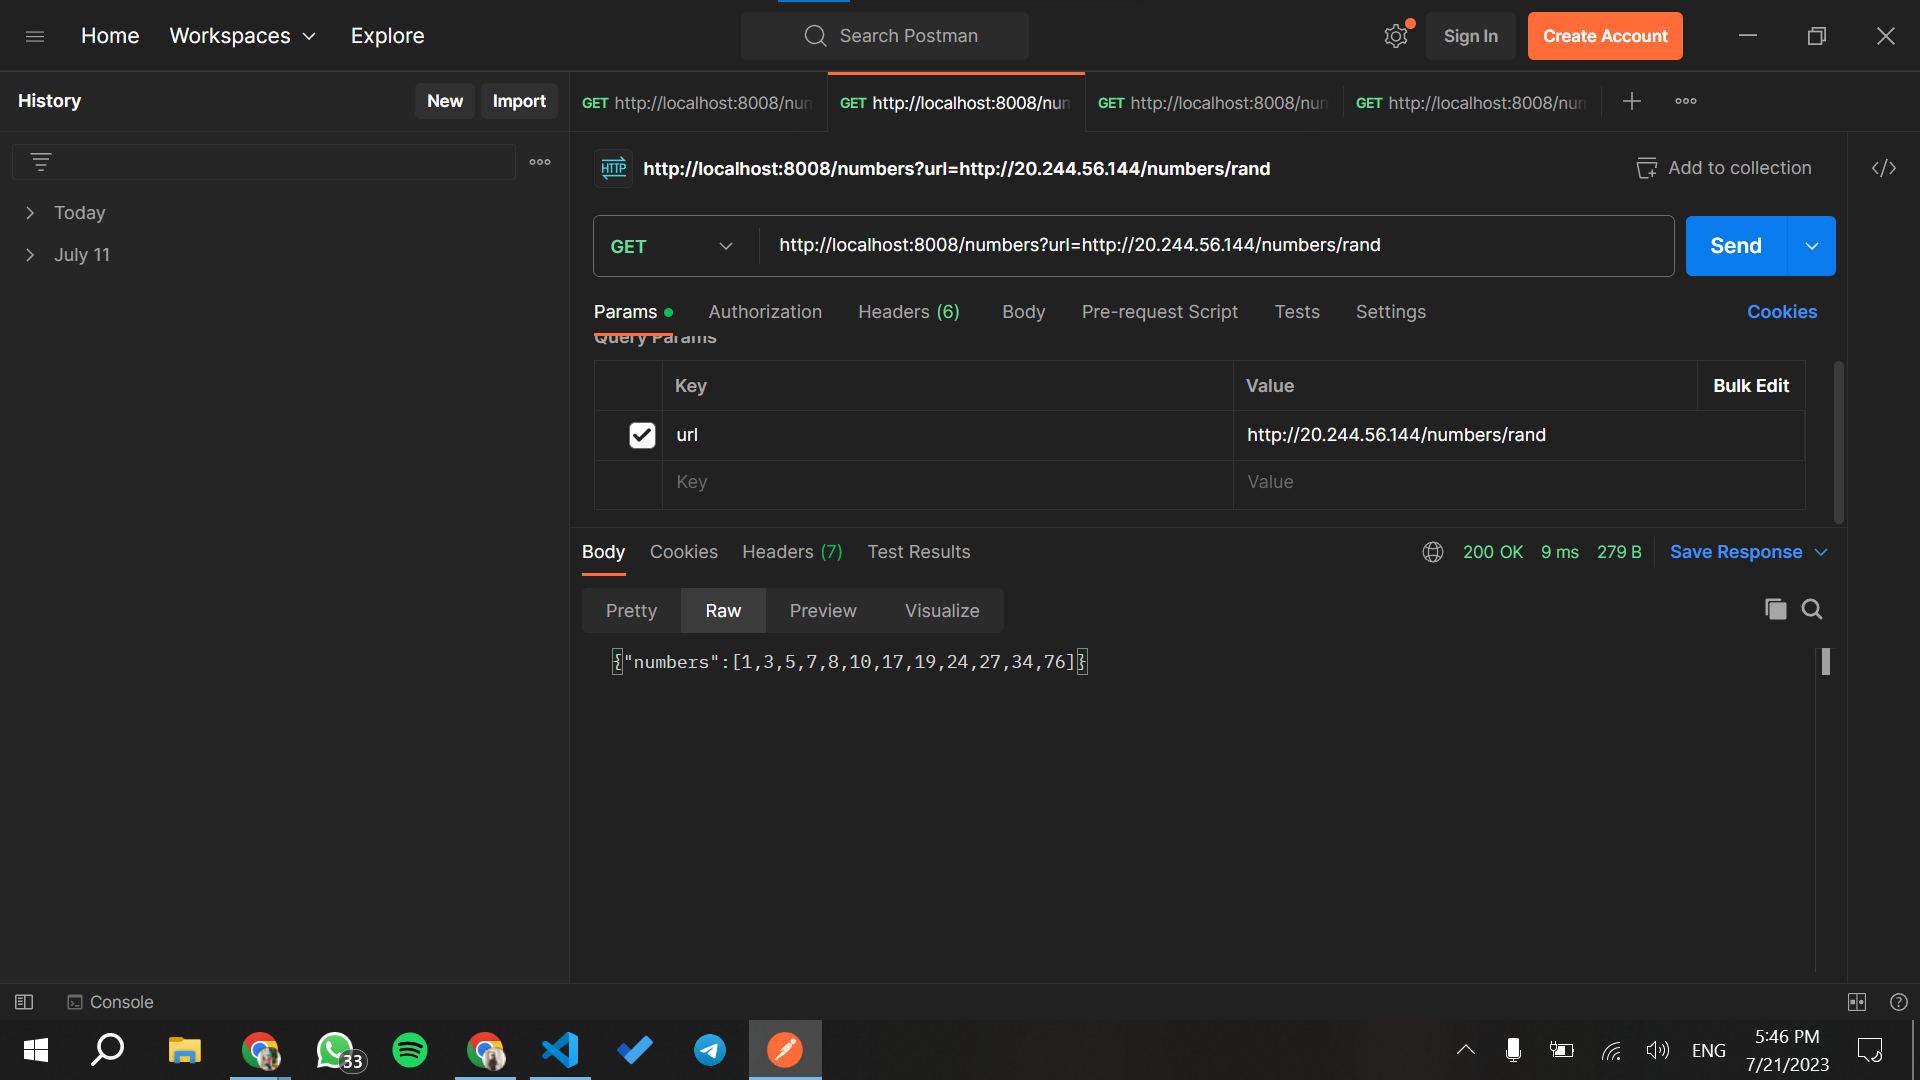
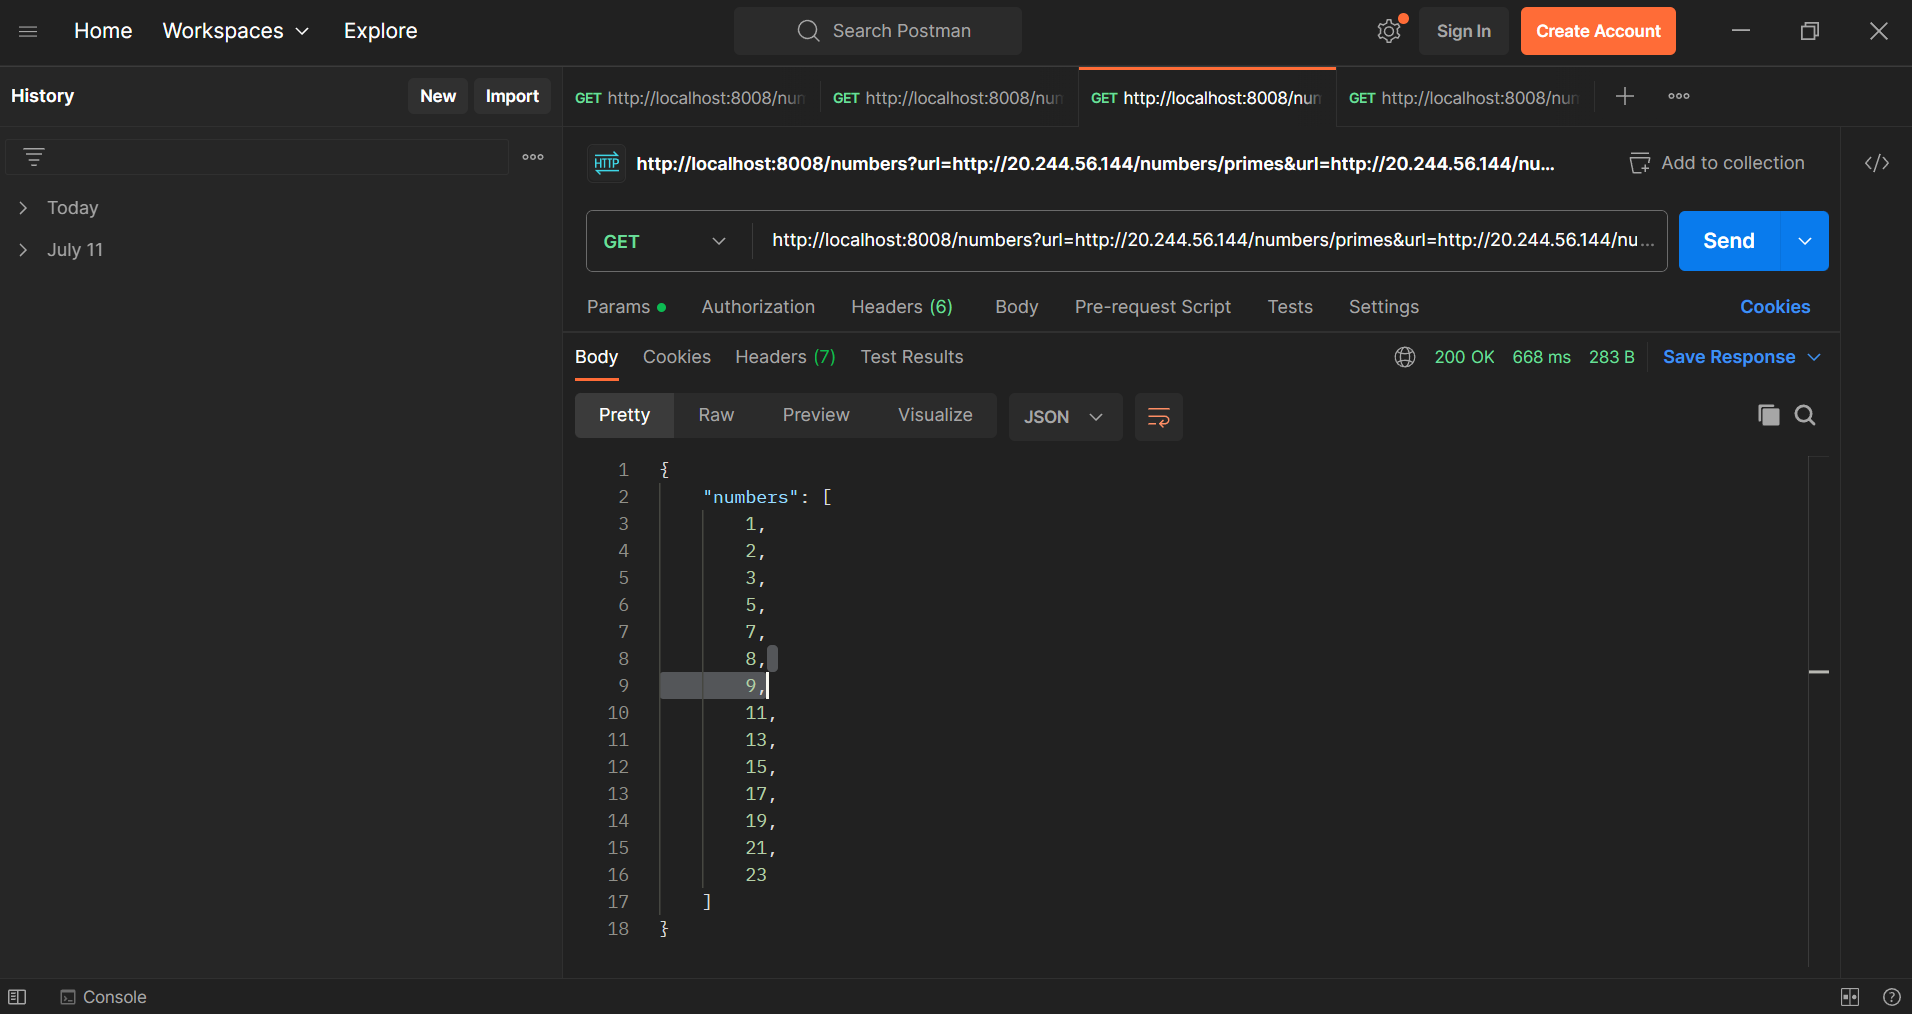
optimized

diff --git a/Q1/number-controller.js b/Q1/number-controller.js
@@ -1,73 +1,45 @@
-const url = require("url");
-const { URLSearchParams } = require("url");
+const axios = require("axios");
 
-var mySet = new Set();
-const getNumber = async (req, res, next) => {
-  const queries = getAllUrlsFromQuery(req.url);
-  for (const query of queries) {
-    const data = await getDataFromApi(query);
-  }
-  var answer = [...mySet];
-  answer.sort(function (a, b) {
-    return a - b;
-  });
-
-  return res.status(200).json({
-    numbers: answer,
-  });
-};
-
-function getAllUrlsFromQuery(queryString) {
-  const searchParams = new URLSearchParams(queryString);
-  const urls = [];
-
-  // Loop through all keys in the query parameters
-  for (const key of searchParams.keys()) {
-    const value = searchParams.get(key);
-    // Check if the value is a valid URL
-    if (isValidUrl(value)) {
-      urls.push(value);
-    }
-  }
-
-  return urls;
-}
-
-// Helper function to check if a string is a valid URL
-function isValidUrl(url) {
+const validURLChecker = (string) => {
   try {
-    new URL(url);
+    new URL(string);
     return true;
-  } catch (err) {
+  } catch (error) {
     return false;
   }
-}
+};
 
-function getDataFromApi(apiUrl) {
-  fetch(new URL(apiUrl))
-    .then((response) => {
-      if (!response.ok) {
-        throw new Error("Network response was not ok");
-      }
-      return response.json();
-    })
-    .then((data) => {
-      // const arr = data.numbers;
-      // const dataArray = ansArray.push(...arr);
-      // ansArray = dataArray.filter(
-      //   (value, index, array) => array.indexOf(value) === index
-      // );
-      // return data.numbers;
-      const newSet = new Set();
-      const arr = data.numbers;
-      arr.forEach((item) => {
-        newSet.add(item);
-      });
-      mySet = new Set([...mySet, ...newSet]);
-    })
-    .catch((error) => {
-      console.error("Error fetching data:", error);
+const getNumber = async (req, res) => {
+  const urls = req.query.url;
+  if (!urls || !Array.isArray(urls)) {
+    return res.status(400).json({
+      error: "Wrong Query Passed",
     });
-}
+  }
+
+  try {
+    const response = urls.filter(validURLChecker).map(async (url) => {
+      try {
+        const response = await axios.get(url);
+        return response.data.numbers;
+      } catch (error) {
+        return [];
+      }
+    });
+
+    const responseData = await Promise.allSettled(response);
+    const answer = Array.from(
+      new Set(
+        responseData.flatMap((result) =>
+          result.status === "fulfilled" ? result.value : []
+        )
+      )
+    ).sort((a, b) => a - b);
+
+    return res.json({ numbers: answer });
+  } catch (error) {
+    return res.status(500).json({ error: "Internal server error." });
+  }
+};
 
 exports.getNumber = getNumber;

diff --git a/Q1/app.js b/Q1/app.js
@@ -5,8 +5,6 @@ const numberRoutes = require("./numbers-route");
 
 const app = express();
 
-console.log("Connected");
-
 app.use(bodyParser.json());
 
 app.use("/", numberRoutes);
